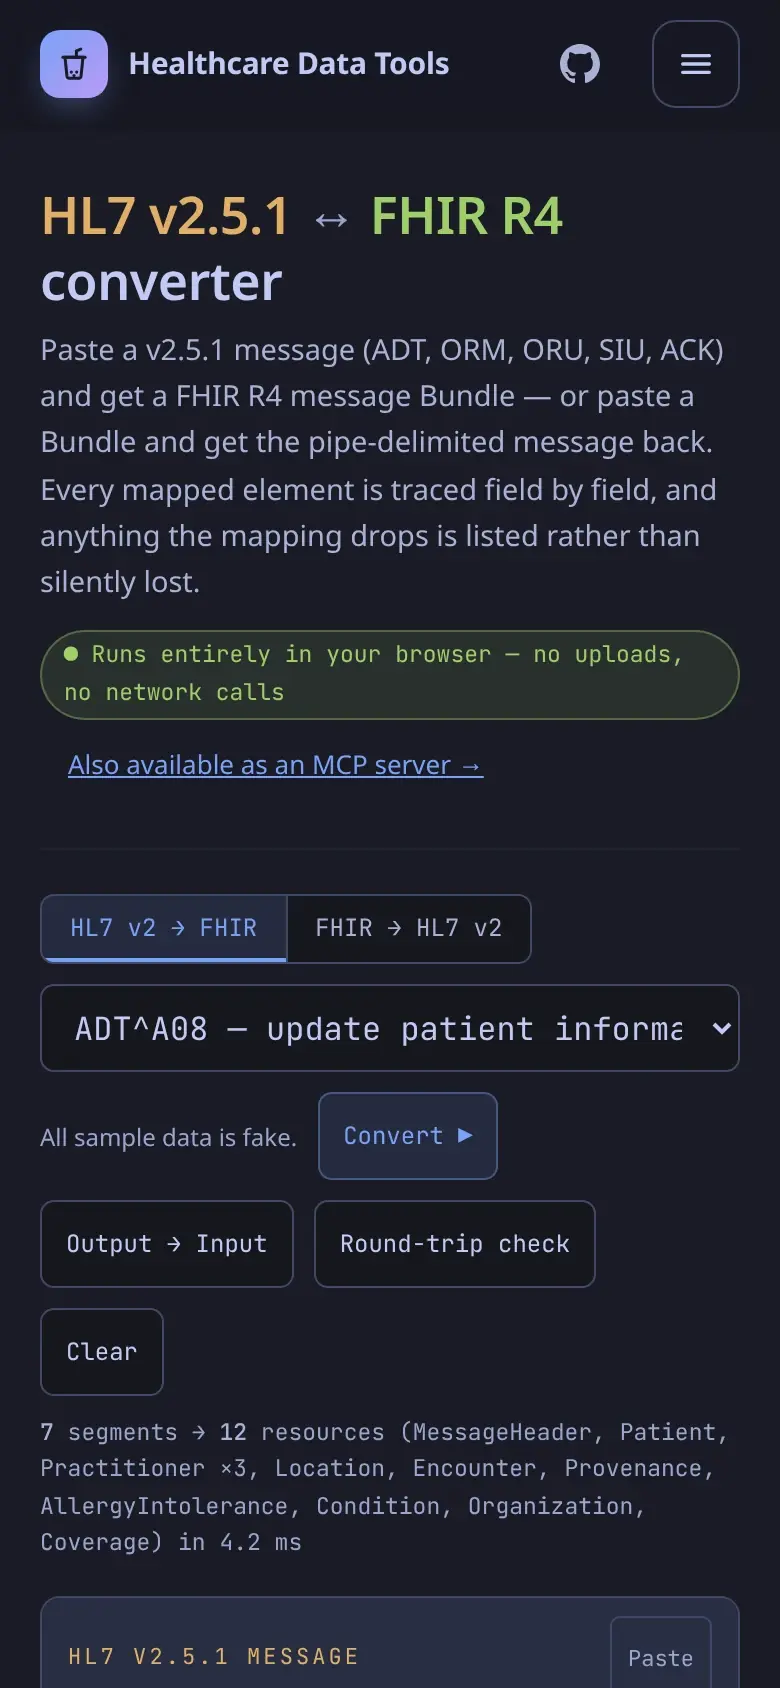
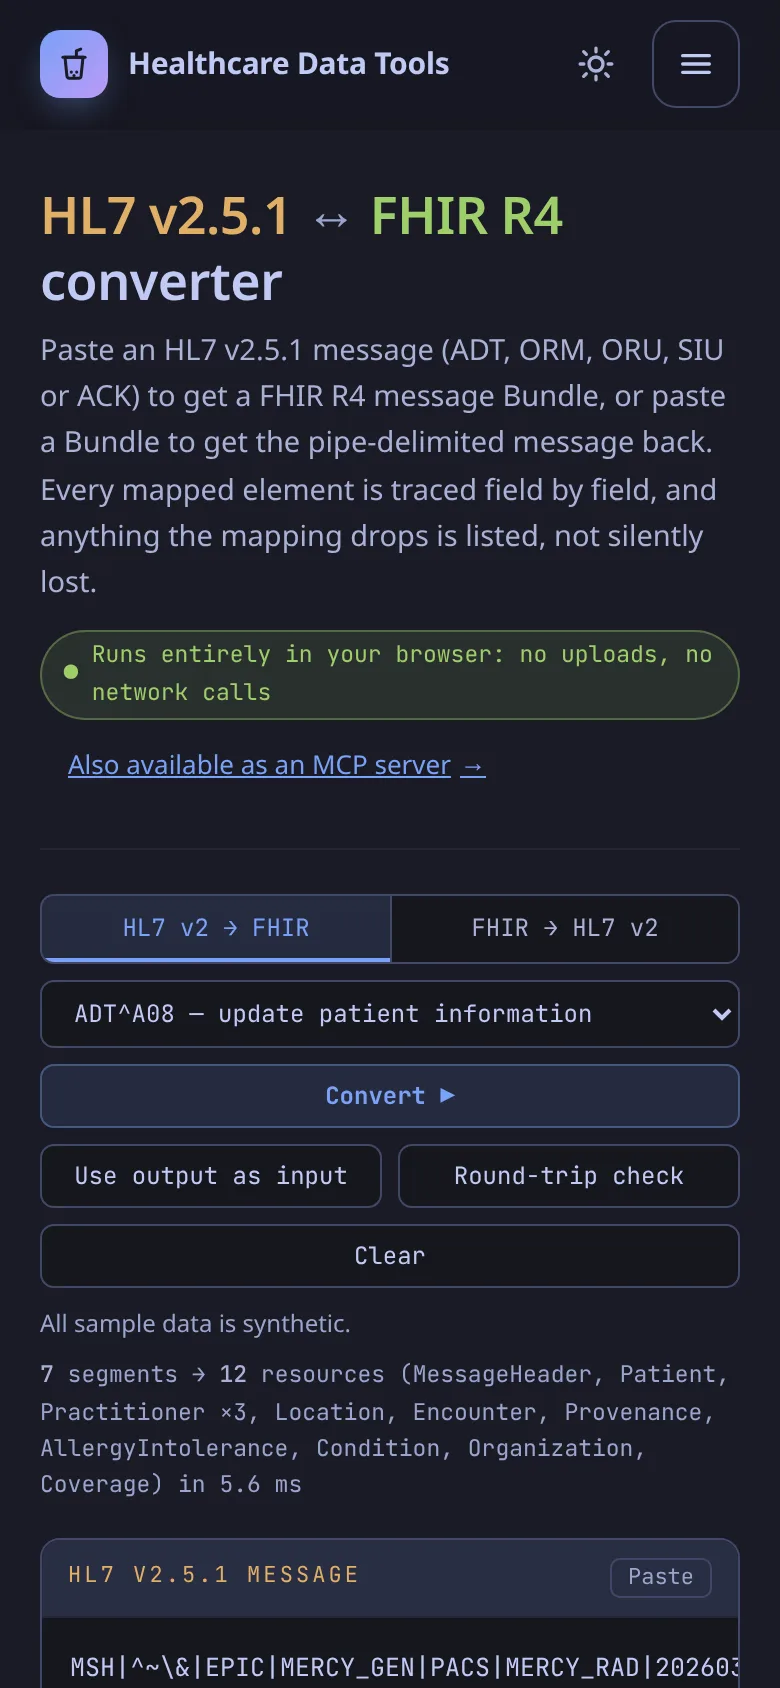
Revise README: recent changes, site overview and refreshed screenshots

diff --git a/README.md b/README.md
@@ -26,6 +26,13 @@ The landing page links to these tools:
 - Strict Content-Security-Policy on every page (`<meta http-equiv>`, since GitHub Pages can't send headers): scripts and styles only from this site, no inline code, no network requests.
 - Mobile-friendly: 16px inputs on touch screens, 44px tap targets, wide tables and code blocks scroll inside their own box, and safe-area insets are respected.
 
+## Recent changes
+
+- **Nov 2026, polish:** tighter copy and clearer calls to action on the landing page, full-width buttons and an even facts grid on phones, a consistent Live site / GitHub row on repo cards, clearer converter labels, and a fix for the handbook's signal-chain diagram, which was squeezed on desktop and broke words mid-way. README screenshots refreshed.
+- **Nov 2026, modernize:** product-style landing page, light theme alongside Tokyo Night, strict CSP on every page, and an XSS fix in the converter.
+
+Details are in [CHANGES.md](CHANGES.md).
+
 ## HL7 standard: v2.5.1
 
 The converter reads and writes HL7 **v2.5.1**: it warns when an input's MSH-12 is a different version, and it always writes `2.5.1` to MSH-12 when converting from FHIR. The handbook's examples use v2.5.1 too.
